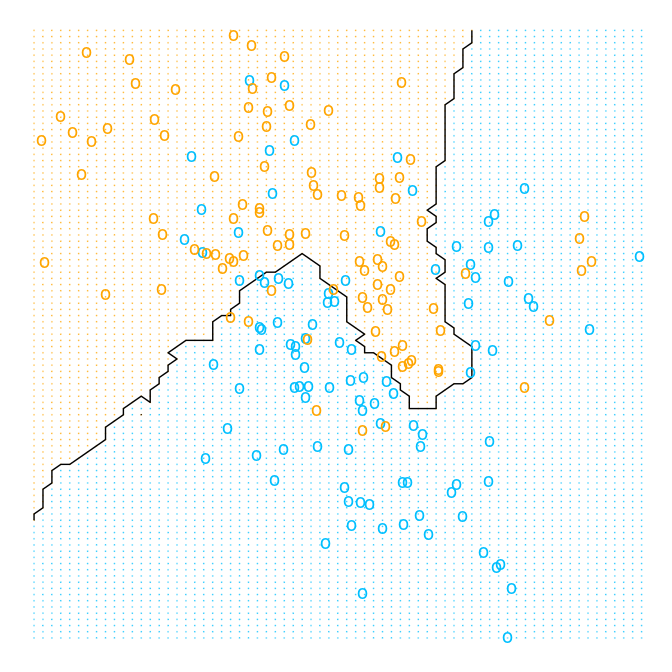
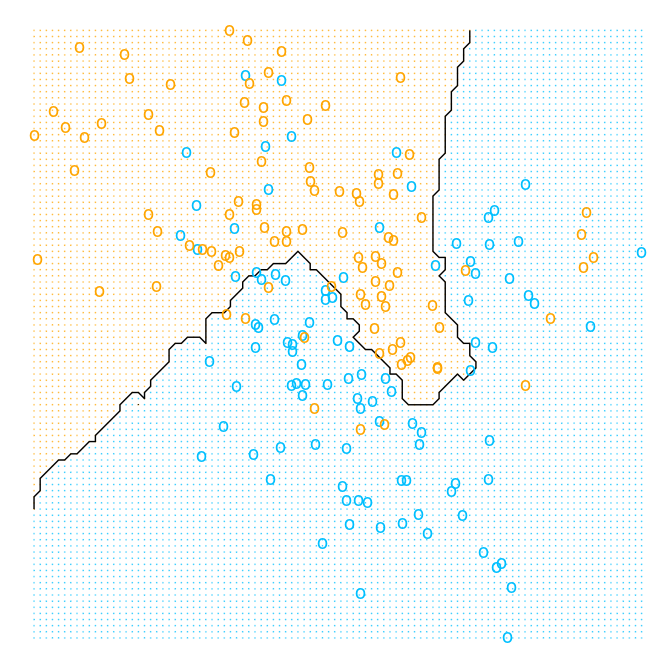
create grid in plot function

Changed region(s): [[0.0312, 0.0312, 0.9688, 0.9688]]

diff --git a/02-Overview-Supervised-Learning.md b/02-Overview-Supervised-Learning.md
@@ -111,20 +111,24 @@ We start with a 15-nearest-neighbor model.
 tsk2 = makeClassifTask(data = data.frame(df[,1:2], y = factor(df$y)), target = "y")
 lrn.knn15 = makeLearner("classif.knn", k = 15)
 mod.knn15 = train(lrn.knn15, tsk2)
-y.hat = getPredictionResponse(predict(mod.knn15, newdata = grid[, -3]))
-grid["y.knn15"] = y.hat
 ```
 
 ``` r
-Plot2DBinaryClassification = function(target) {
+Plot2DBinaryClassification = function(task, model, grid.res = 100) {
+  data = getTaskData(task, target.extra = TRUE)
+  x1 = data$data[, 1]
+  x2 = data$data[, 2]
+  grid = expand.grid(x1 = seq(min(x1), max(x1), length.out = grid.res), 
+    x2 = seq(min(x2), max(x2), length.out = grid.res))
+  y.hat = getPredictionResponse(predict(model, newdata = grid))
   ggplot() + 
-    geom_point(aes(x = grid$x1, y = grid$x2, col = grid[,target]),
-               shape = 20, size = .05, alpha = .5, show.legend = FALSE) +
-    geom_contour(aes(grid$x1, grid$x2, z = as.numeric(grid[,target])), col = "black", bins = 1) +
-    geom_point(aes(x = df$x1, y = df$x2, col = factor(df$y)),
-               shape = "o", size = 4, stroke = 2, show.legend = FALSE) +
+    geom_point(aes(x = grid$x1, y = grid$x2, col = y.hat), shape = 20, size = .05, alpha = .5,
+      show.legend = FALSE) +
+    geom_contour(aes(grid$x1, grid$x2, z = as.numeric(y.hat)), col = "black", bins = 1) +
+    geom_point(aes(x = x1, y = x2, col = data$target), shape = "o", size = 4, stroke = 2,
+      show.legend = FALSE) +
     scale_colour_manual(values = c("deepskyblue", "orange")) +
-    theme_void()  
+    xlab(names(data$data)[1]) + ylab(names(data$data)[2])
 }
 ```
 
@@ -132,7 +136,7 @@ Figure 2-2 Classification using 15-nearest-neighbors
 ----------------------------------------------------
 
 ``` r
-Plot2DBinaryClassification("y.knn15")
+Plot2DBinaryClassification(task = tsk2, model = mod.knn15) + theme_void()
 ```
 
 ![](figures/figure-2-2-knn15-1.png)
@@ -142,15 +146,13 @@ Now we train a 1-nearest-neighbor model.
 ``` r
 lrn.knn1 = setHyperPars(lrn.knn15, k = 1)
 mod.knn1 = train(lrn.knn1, tsk2)
-y.hat = getPredictionResponse(predict(mod.knn1, newdata = grid[, 1:2]))
-grid["y.knn1"] = y.hat
 ```
 
 Figure 2-3 Classification using 1-nearest-neighbor
 --------------------------------------------------
 
 ``` r
-Plot2DBinaryClassification("y.knn1")
+Plot2DBinaryClassification(task = tsk2, model = mod.knn1)
 ```
 
 ![](figures/figure-2-3-knn1-1.png)
@@ -606,9 +608,7 @@ Bonus figure: naive Bayes classifier
 ``` r
 lrn.nb = makeLearner("classif.naiveBayes")
 mod.nb = train(lrn.nb, tsk2)
-y.hat = getPredictionResponse(predict(mod.nb, newdata = grid[, 1:2]))
-grid["y.nb"] = y.hat
-Plot2DBinaryClassification("y.nb")
+Plot2DBinaryClassification(tsk2, mod.nb)
 ```
 
 ![](figures/figure-bonus-naive-bayes-1.png)
@@ -621,9 +621,7 @@ The degrees of freedom for k-nearest-neighbors is given by $\\frac{n}{k}$.
 ``` r
 lrn.knn67 = setHyperPars(lrn.knn15, k = 67)
 mod.knn67 = train(lrn.knn67, tsk2)
-y.hat = getPredictionResponse(predict(mod.knn67, newdata = grid[, 1:2]))
-grid["y.knn67"] = y.hat
-Plot2DBinaryClassification("y.knn67")
+Plot2DBinaryClassification(tsk2, mod.knn67)
 ```
 
 ![](figures/figure-bonus-knn67-1.png)
